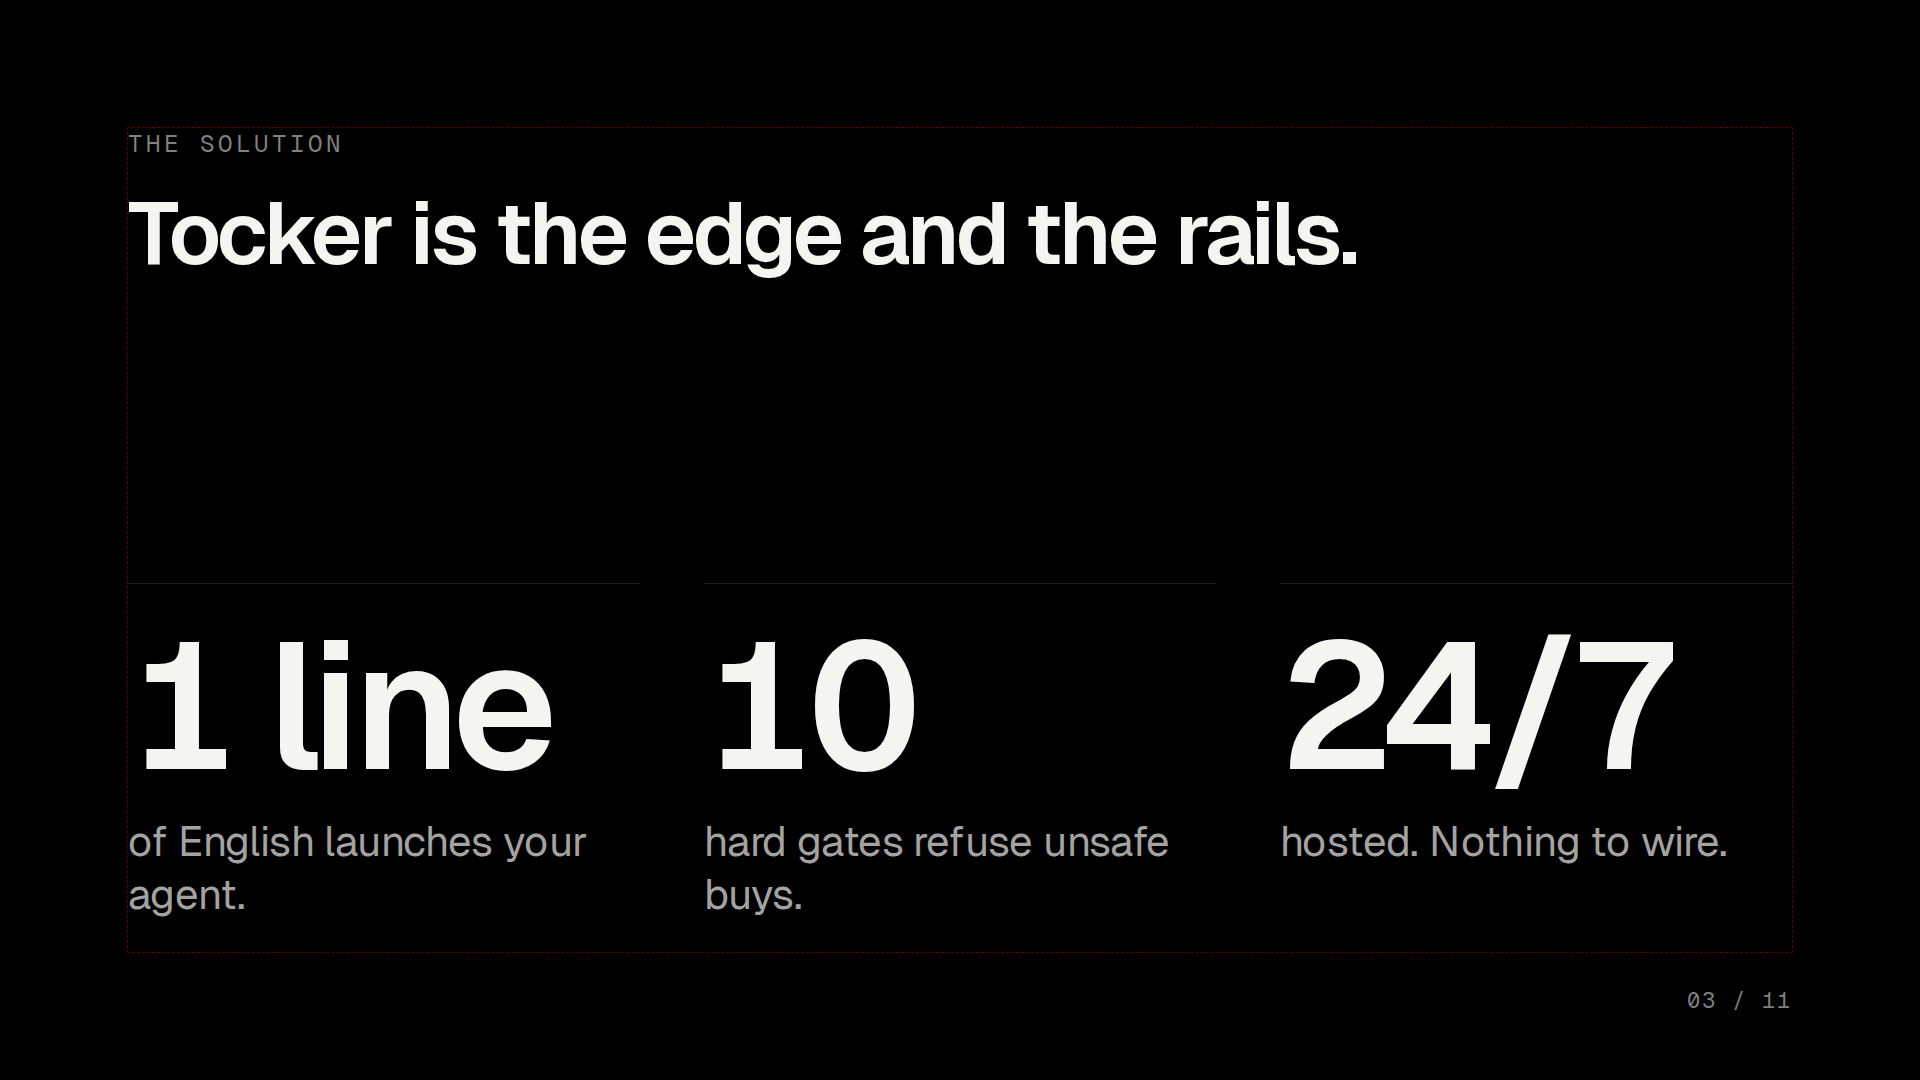
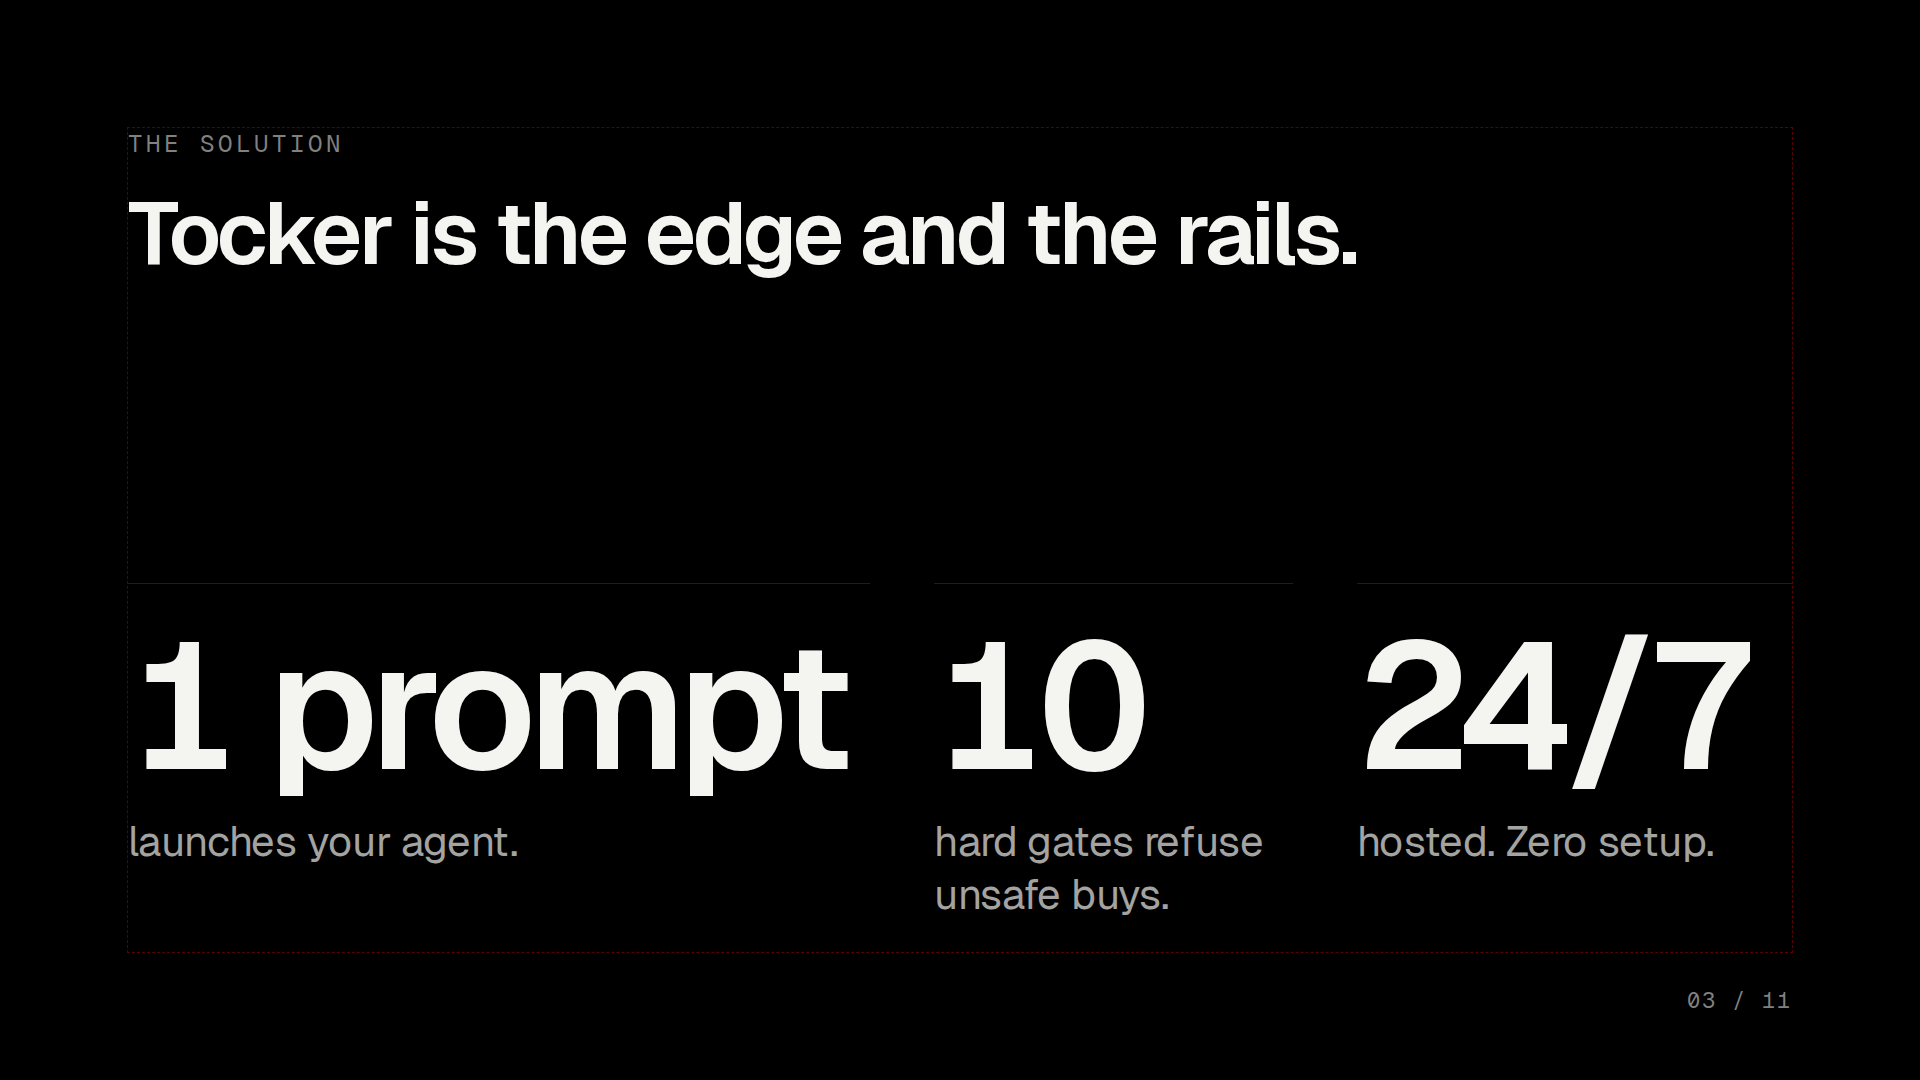
docs(pitch): solution — 1 prompt launches your agent
Claude-Session: https://claude.ai/code/session_01C63X7bmiYFRUvieQLSha7b

diff --git a/docs/pitch/deck/build_simple_slides.py b/docs/pitch/deck/build_simple_slides.py
@@ -37,9 +37,9 @@ SLIDES = {
                       ("$200", "a month and 20+ services to run your own agent.")], 180),
                 "94%: 304,161 Solana memecoin wallets over 90 days to Aug 2026, fomo × Dune · $200: list prices, Oct 2026"),
     "solution": ("The solution", "Tocker is the edge and the rails.",
-                 bigs([("1 line", "of English launches your agent."),
+                 bigs([("1 prompt", "launches your agent."),
                        ("10", "hard gates refuse unsafe buys."),
-                       ("24/7", "hosted. Nothing to wire.")], 180), ""),
+                       ("24/7", "hosted. Zero setup.")], 180, [1.45, 0.7, 0.85]), ""),
     "edge": ("The edge", "Edge starts with not losing.",
              bigs([("76%", "of new tokens were rugs. Gates refuse them."),
                    ("2–7¢", "a token for premium data: smart money, holder growth, bullish signals."),

diff --git a/docs/pitch/pitch-3min.md b/docs/pitch/pitch-3min.md
@@ -15,7 +15,7 @@ Twenty-one thousand tokens launch on pump.fun every day. Almost all collapse. Bo
 Over ninety days this year, ninety-four percent of Solana memecoin wallets made no profit. I've lost more than I'd like to admit to rugs, honeypots and my own emotions. And building your own agent? About two hundred dollars a month, and twenty-plus services to wire and babysit.
 
 ## solution
-Tocker fixes both with one line of English. Ten hard gates in code refuse unsafe buys, your agent buys data per call, and it runs hosted around the clock. Nothing to wire.
+Tocker fixes both with one prompt. Ten hard gates in code refuse unsafe buys, your agent buys data per call, and it runs hosted around the clock. Nothing to wire.
 
 ## product
 Here's a sample run. The thesis: memes smart money is accumulating. Your agent finds WIF. It scores eighty-one, clears all ten gates, and buys a hundred dollars, exits in code. [pause] I was emotional. An agent isn't. It just follows your rules.
